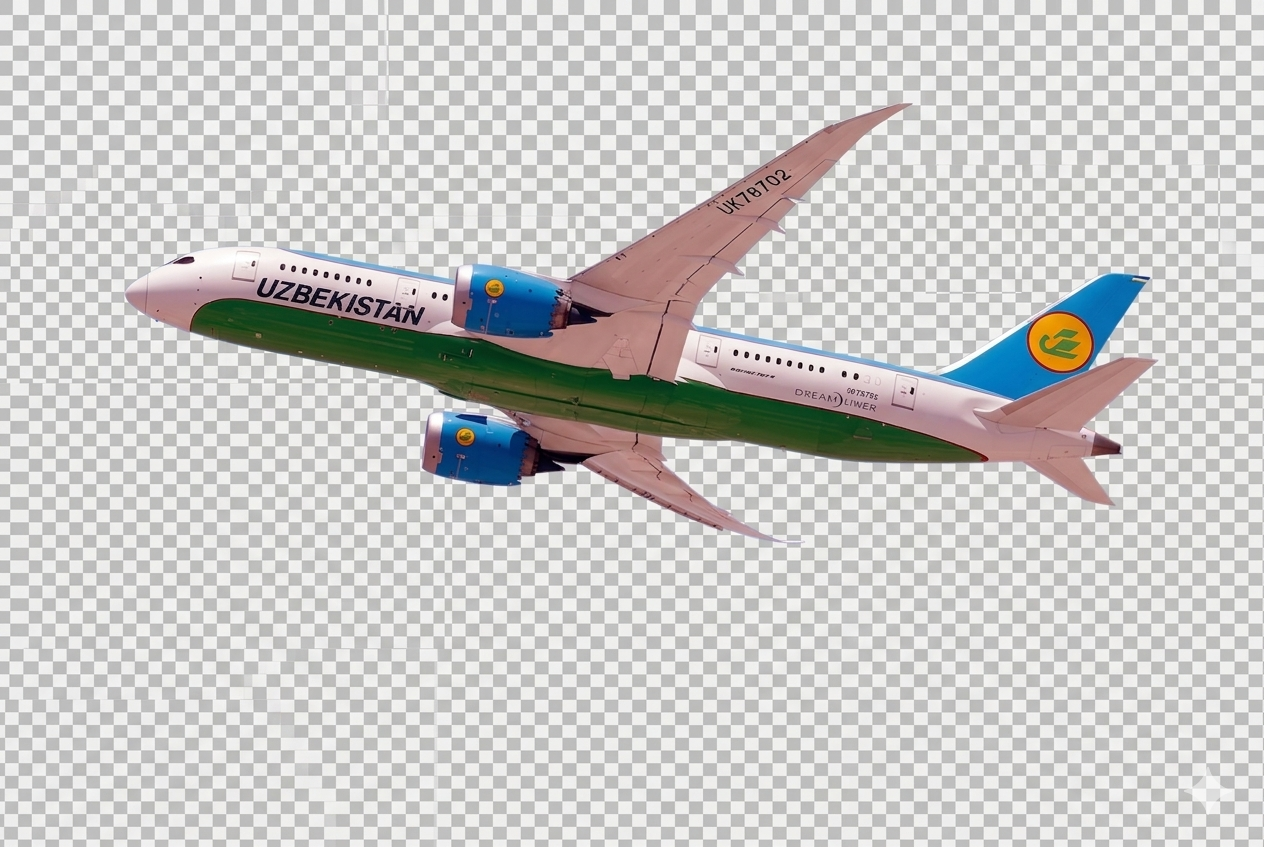
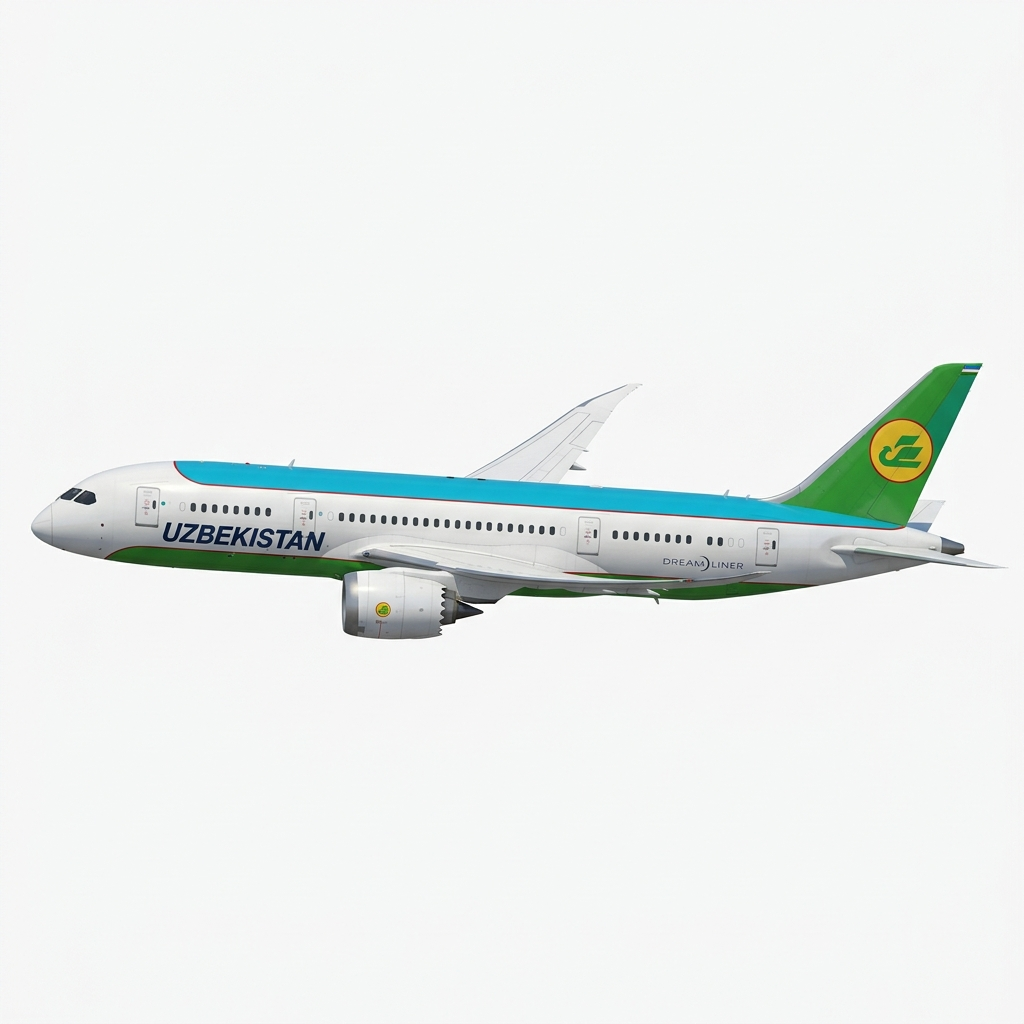
feat: updated plane image

diff --git a/app/src/sections/Hero.tsx b/app/src/sections/Hero.tsx
@@ -175,7 +175,7 @@ export default function Hero() {
           }}
         />
         <img
-          src="/images/new_plane.png"
+          src="/images/plane_uzb.png"
           alt="Uzbekistan Airways Boeing 787"
           className="w-full h-auto"
           style={{